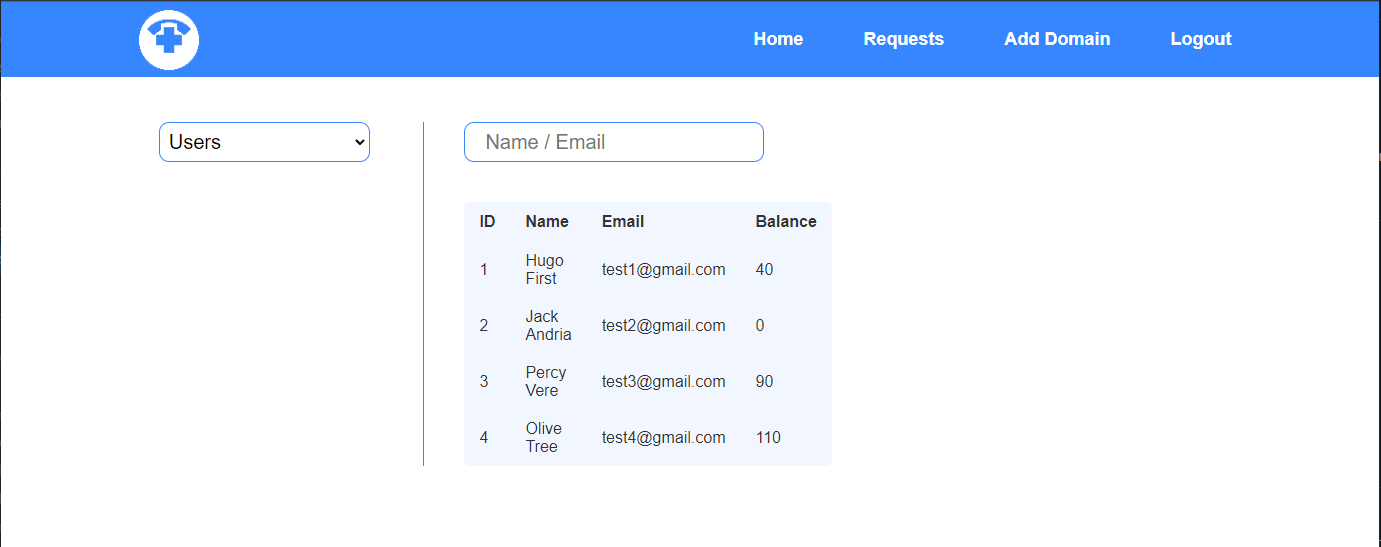
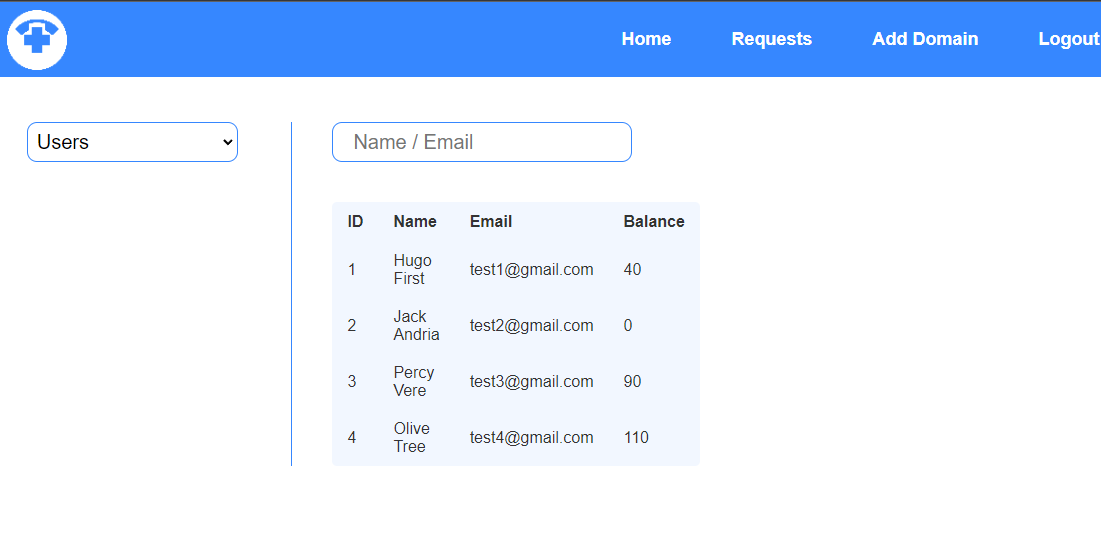
Readme: Changing size of admin images

diff --git a/README.md b/README.md
@@ -163,27 +163,24 @@ Note that I didn't use any styling library or theme, all from scratch.
 
 | Doctors Data                                   |
 | ---------------------------------------------- |
-| <div align="center"> <img src="./readme/device/admin-doctors.PNG" width="60%"/> </div> |
+| <div align="center"> <img src="./readme/device/admin-doctors.PNG"/> </div> |
 
 | Users Data                                   |
 | -------------------------------------------- |
-| <div align="center"> <img src="./readme/device/admin-users.PNG" width="80%"/> </div> |
+| <div align="center"> <img src="./readme/device/admin-users.PNG"/> </div> |
 
 | Hamburger Menu                                        |
 | ----------------------------------------------------- |
-| <div align="center"> <img src="./readme/device/admin-hamburger-menu.PNG" width="80%"/> </div> |
+| <div align="center"> <img src="./readme/device/admin-hamburger-menu.PNG" width="60%"/> </div> |
 
-| Add Domain                                        |
-| ------------------------------------------------- |
-| <div align="center"> <img src="./readme/device/admin-add-domain.PNG" width="80%"/> </div> |
+| Add Domain                                        | Requests                                        |
+| ------------------------------------------------- | ----------------------------------------------- |
+| <img src="./readme/device/admin-add-domain.PNG"/> | <img src="./readme/device/admin-requests.PNG"/> |
 
-| Requests                                        |
-| ----------------------------------------------- |
-| <div align="center"> <img src="./readme/device/admin-requests.PNG" width="80%"/> </div> |
 
 | Accept Request                                |
 | --------------------------------------------- |
-| <div align="center"> <img src="./readme/device/admin-accept.PNG" width="80%"/> </div> |
+| <img src="./readme/device/admin-accept.PNG"/> |
 
 <br><br>
 
